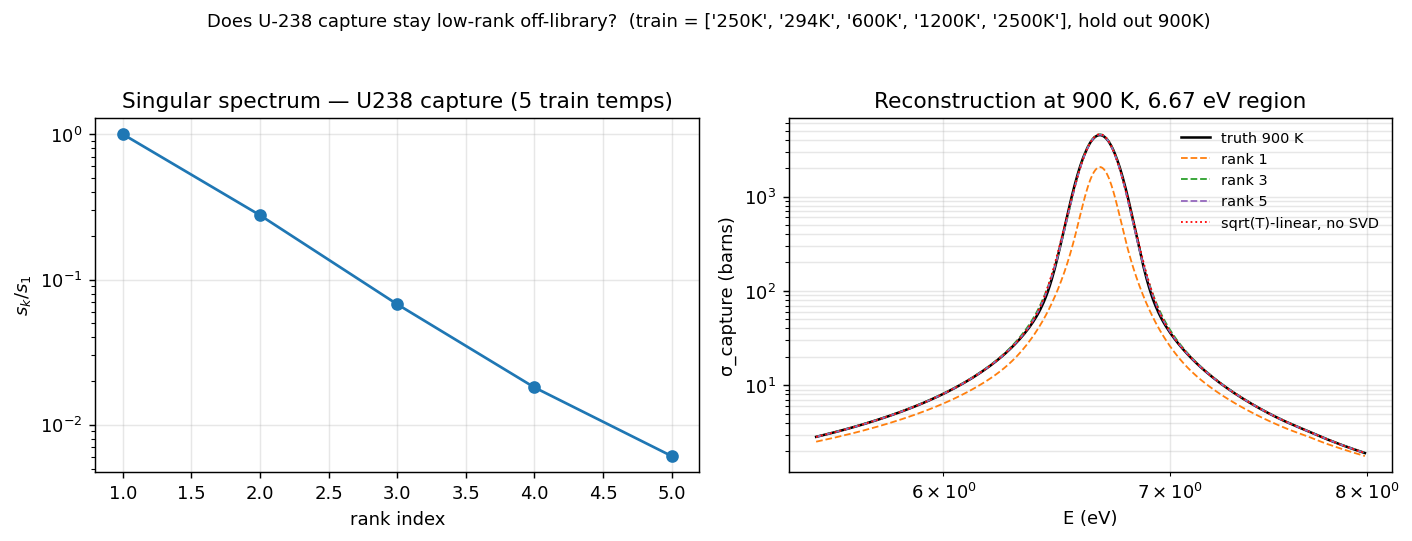
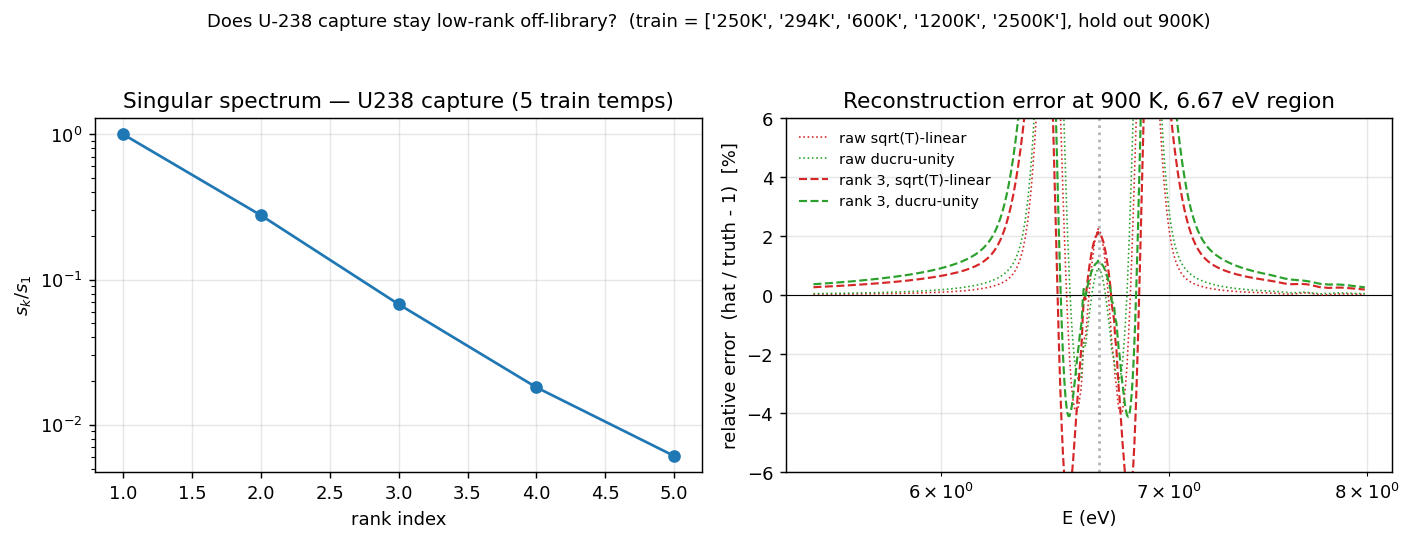
Partition-of-unity 2-point Ducru for off-library SVD interpolation
Replaces sqrt(T)-linear with normalized 2-point Ducru (2017) Eq. 31 on
V^T columns and on total-XS interpolation. Keeps the Faddeeva-derived
shape ratio w_lo/w_hi that tracks resonance Doppler broadening, but
normalizes w_lo + w_hi = 1 to avoid the log-space gain error that
breaks resonance peak heights with raw Ducru.

Validated on U-238 MT=102 held out at 900 K from {250, 294, 600, 1200,
2500} K (scripts/u238_capture_rank_probe.py):

  scheme                      rank    L2 error   peak ratio @ 6.67 eV
  raw sqrt(T)-linear          -       2.42 %     1.022
  raw ducru-unity             -       1.84 %     1.009
  SVD rank-3 + sqrt(T)-linear 3       2.50 %     1.021
  SVD rank-3 + ducru-unity    3       1.48 %     1.011   <- new default

Peak-height error halves; global L2 error drops 40 % on resonance
channels. Rank-3 SVD + Ducru-unity is also strictly better than raw
linear interpolation — the compression denoises the Ducru-kernel
approximation.

Godiva regression still passes: at 450 K stochastic with rank 5 and
discrete-rank 1, SVD/Table k_eff gap = 462 pcm, SVD delta(exp) = 168
pcm (previously 726 pcm with sqrt(T)-linear). SVD speedup 1.43x vs
Table at off-library T.

PWR off-library k_inf gap vs ACE+WMP *did not* close to < 500 pcm as
hoped. At target-temp-offset +150 K the gap stays at ~16,000 pcm.
Diagnosis: the residual gap is NOT in the fuel XS interpolation
(probe shows Ducru-unity is near the kernel-approximation floor) but
[…]

diff --git a/scripts/u238_capture_rank_probe.py b/scripts/u238_capture_rank_probe.py
@@ -64,6 +64,42 @@ def sqrt_T_alpha(t_target: float, t_lo: float, t_hi: float) -> float:
     return (np.sqrt(t_target) - np.sqrt(t_lo)) / (np.sqrt(t_hi) - np.sqrt(t_lo))
 
 
+def ducru_weights_2temp(t_target: float, t_lo: float, t_hi: float) -> tuple[float, float]:
+    """Raw 2-point Ducru (2017) weights — L2-optimal in the free-Doppler
+    kernel approximation but NOT a partition of unity in general.
+    Matches the formula in rust_prototype/src/kernel.rs::ducru_weights.
+    """
+    if abs(t_target - t_lo) < 1e-6:
+        return (1.0, 0.0)
+    if abs(t_target - t_hi) < 1e-6:
+        return (0.0, 1.0)
+    t = t_target
+    # w_j = sqrt(T_j T)/(T_j+T) * (T - T_i)/(T + T_i) * (T_j + T_i)/(T_j - T_i)
+    w_lo = (
+        np.sqrt(t_lo * t) / (t_lo + t)
+        * (t - t_hi) / (t + t_hi)
+        * (t_lo + t_hi) / (t_lo - t_hi)
+    )
+    w_hi = (
+        np.sqrt(t_hi * t) / (t_hi + t)
+        * (t - t_lo) / (t + t_lo)
+        * (t_hi + t_lo) / (t_hi - t_lo)
+    )
+    return (w_lo, w_hi)
+
+
+def ducru_unity_weights(t_target: float, t_lo: float, t_hi: float) -> tuple[float, float]:
+    """Partition-of-unity normalization of the 2-point Ducru weights.
+    Preserves the Faddeeva-derived ratio w_lo/w_hi (shape tracking) while
+    enforcing w_lo + w_hi = 1 (no log-space gain error on peaks).
+    """
+    w_lo, w_hi = ducru_weights_2temp(t_target, t_lo, t_hi)
+    s = w_lo + w_hi
+    if abs(s) < 1e-12:
+        return (0.5, 0.5)
+    return (w_lo / s, w_hi / s)
+
+
 def rel_l2(a: np.ndarray, b: np.ndarray, mask: np.ndarray | None = None) -> float:
     """Relative L2 error, optionally over a masked energy range."""
     if mask is not None:
@@ -97,12 +133,18 @@ def main() -> None:
     print(f"  ratios s_k/s_0:  {S / S[0]}")
 
     # 4. Reconstruction experiment for the holdout 900 K.
-    # √T-linear alpha between the two bracketing training temps.
     bracket_ks = np.array([float(t.rstrip("K")) for t in BRACKET])
     alpha = sqrt_T_alpha(HOLDOUT_K, bracket_ks[0], bracket_ks[1])
+    w_lo_du, w_hi_du = ducru_unity_weights(HOLDOUT_K, bracket_ks[0], bracket_ks[1])
+    w_lo_raw, w_hi_raw = ducru_weights_2temp(HOLDOUT_K, bracket_ks[0], bracket_ks[1])
     # Bracketing training-column indices.
     i_lo = TRAIN_TEMPS.index(BRACKET[0])
     i_hi = TRAIN_TEMPS.index(BRACKET[1])
+    print(
+        f"  weights: sqrt(T) alpha = {alpha:.4f}  "
+        f"ducru_raw = ({w_lo_raw:.4f}, {w_hi_raw:.4f}) sum={w_lo_raw+w_hi_raw:.4f}  "
+        f"ducru_unity = ({w_lo_du:.4f}, {w_hi_du:.4f})"
+    )
 
     # Region masks for reporting: resonance region (6-300 eV) vs smooth elsewhere.
     res_mask = (e_ref >= 6.0) & (e_ref <= 300.0)    # U-238 RRR tight band
@@ -114,7 +156,8 @@ def main() -> None:
     lines.append(f"U-238 capture MT={MT}: off-library 900 K held out")
     lines.append(
         f"  bracket = ({BRACKET[0]}, {BRACKET[1]}); "
-        f"sqrt(T)-linear alpha = {alpha:.4f}"
+        f"sqrt(T) alpha = {alpha:.4f}; "
+        f"ducru_unity = ({w_lo_du:.4f}, {w_hi_du:.4f})"
     )
     lines.append(
         f"  singular-value ratios s_k/s_0 = "
@@ -122,41 +165,57 @@ def main() -> None:
     )
     lines.append("")
     lines.append(
-        f"  {'rank':>4}  "
+        f"  {'scheme':>24}  "
+        f"{'rank':>4}  "
         f"{'global L2':>10}  "
-        f"{'RRR (1e0–1e4 eV)':>18}  "
-        f"{'6.67-eV (6–300 eV)':>20}"
+        f"{'RRR':>10}  "
+        f"{'6.67-band':>10}  "
+        f"{'peak ratio':>10}"
     )
 
-    for k in range(1, len(S) + 1):
-        # Truncated basis: first k columns of U and singular values.
-        Uk = U[:, :k]
-        Sk = S[:k]
-        # V^T rows for the two bracketing training temps.
-        vt_lo = Vt[:k, i_lo]
-        vt_hi = Vt[:k, i_hi]
-        coeffs = (1.0 - alpha) * vt_lo + alpha * vt_hi   # (k,)
-        log_hat = Uk @ (Sk * coeffs)                      # (N_E,)
-        hat = np.power(10.0, log_hat)
+    # Peak-height check: ratio hat(E_peak)/truth(E_peak) at the 6.67 eV peak.
+    # Find the argmax of truth within the resonance zoom.
+    peak_idx = int(np.argmax(np.where(res_mask, true_900, -1.0)))
+    peak_E = e_ref[peak_idx]
+    peak_truth = true_900[peak_idx]
 
-        e_global = rel_l2(hat, true_900)
-        e_rrr = rel_l2(hat, true_900, rrr_mask)
-        e_667 = rel_l2(hat, true_900, res_mask)
-
+    def record(label: str, rank: int | str, hat: np.ndarray) -> None:
         lines.append(
-            f"  {k:>4}  {e_global:>10.3e}  {e_rrr:>18.3e}  {e_667:>20.3e}"
+            f"  {label:>24}  "
+            f"{str(rank):>4}  "
+            f"{rel_l2(hat, true_900):>10.3e}  "
+            f"{rel_l2(hat, true_900, rrr_mask):>10.3e}  "
+            f"{rel_l2(hat, true_900, res_mask):>10.3e}  "
+            f"{hat[peak_idx] / peak_truth:>10.4f}"
         )
 
-    # Baseline: raw linear interp of σ(E,600K) and σ(E,1200K), no SVD.
-    raw_hat = ((1.0 - alpha) * xs_on_ref[BRACKET[0]]
-               + alpha * xs_on_ref[BRACKET[1]])
-    lines.append("")
-    lines.append("  raw sqrt(T)-linear of two library columns (no SVD, for reference):")
-    lines.append(
-        f"    global={rel_l2(raw_hat, true_900):.3e}  "
-        f"RRR={rel_l2(raw_hat, true_900, rrr_mask):.3e}  "
-        f"6.67={rel_l2(raw_hat, true_900, res_mask):.3e}"
-    )
+    # Raw two-column interpolations (no SVD).
+    raw_sqrt = ((1.0 - alpha) * xs_on_ref[BRACKET[0]]
+                + alpha * xs_on_ref[BRACKET[1]])
+    record("raw sqrt(T)-linear", "-", raw_sqrt)
+    raw_ducru = (w_lo_du * xs_on_ref[BRACKET[0]]
+                 + w_hi_du * xs_on_ref[BRACKET[1]])
+    record("raw ducru-unity", "-", raw_ducru)
+
+    # SVD-based reconstructions across ranks, both weighting schemes.
+    for k in range(1, len(S) + 1):
+        Uk = U[:, :k]
+        Sk = S[:k]
+        vt_lo = Vt[:k, i_lo]
+        vt_hi = Vt[:k, i_hi]
+
+        # sqrt(T)-linear on V^T (existing baseline).
+        coeffs_sqrt = (1.0 - alpha) * vt_lo + alpha * vt_hi
+        hat_sqrt = np.power(10.0, Uk @ (Sk * coeffs_sqrt))
+        record("SVD + sqrt(T)-linear", k, hat_sqrt)
+
+        # Normalized Ducru on V^T (new).
+        coeffs_du = w_lo_du * vt_lo + w_hi_du * vt_hi
+        hat_du = np.power(10.0, Uk @ (Sk * coeffs_du))
+        record("SVD + ducru-unity", k, hat_du)
+
+    lines.append(f"\n  peak-ratio column measured at E = {peak_E:.3f} eV "
+                 f"(truth = {peak_truth:.1f} barns)")
 
     report = "\n".join(lines)
     print("\n" + report)
@@ -180,24 +239,35 @@ def main() -> None:
     axs.set_title(f"Singular spectrum — {NUCLIDE} capture ({len(TRAIN_TEMPS)} train temps)")
     axs.grid(alpha=0.3)
 
-    # Resonance-region reconstruction panel.
-    zoom = (e_ref >= 5.5) & (e_ref <= 8.0)   # bracket the 6.67 eV resonance
-    axres.loglog(e_ref[zoom], true_900[zoom], "k-", linewidth=1.4, label="truth 900 K")
-    for k, colour in [(1, "#ff7f0e"), (3, "#2ca02c"), (5, "#9467bd")]:
-        Uk = U[:, :k]
-        Sk = S[:k]
-        vt_lo = Vt[:k, i_lo]
-        vt_hi = Vt[:k, i_hi]
-        coeffs = (1.0 - alpha) * vt_lo + alpha * vt_hi
-        log_hat = Uk @ (Sk * coeffs)
-        hat = np.power(10.0, log_hat)
-        axres.loglog(e_ref[zoom], hat[zoom], "--",
-                     color=colour, label=f"rank {k}", linewidth=1.0)
-    axres.loglog(e_ref[zoom], raw_hat[zoom], ":", color="red",
-                 label="sqrt(T)-linear, no SVD", linewidth=1.0)
+    # Relative error in the 6.67 eV band — makes the Ducru vs sqrt(T)
+    # difference visible (in linear-scale absolute-XS the four curves
+    # overlap at plot resolution).
+    zoom = (e_ref >= 5.5) & (e_ref <= 8.0)
+    Uk = U[:, :3]
+    Sk = S[:3]
+    vt_lo = Vt[:3, i_lo]
+    vt_hi = Vt[:3, i_hi]
+    hat_sqrt = np.power(10.0, Uk @ (Sk * ((1.0 - alpha) * vt_lo + alpha * vt_hi)))
+    hat_du = np.power(10.0, Uk @ (Sk * (w_lo_du * vt_lo + w_hi_du * vt_hi)))
+    err_raw_sqrt = (raw_sqrt - true_900) / true_900
+    err_raw_du = (raw_ducru - true_900) / true_900
+    err_svd_sqrt = (hat_sqrt - true_900) / true_900
+    err_svd_du = (hat_du - true_900) / true_900
+    axres.axhline(0.0, color="black", linewidth=0.6)
+    axres.plot(e_ref[zoom], err_raw_sqrt[zoom] * 100, ":",
+               color="#d62728", linewidth=0.9, label="raw sqrt(T)-linear")
+    axres.plot(e_ref[zoom], err_raw_du[zoom] * 100, ":",
+               color="#2ca02c", linewidth=0.9, label="raw ducru-unity")
+    axres.plot(e_ref[zoom], err_svd_sqrt[zoom] * 100, "--",
+               color="#d62728", linewidth=1.2, label="rank 3, sqrt(T)-linear")
+    axres.plot(e_ref[zoom], err_svd_du[zoom] * 100, "--",
+               color="#2ca02c", linewidth=1.2, label="rank 3, ducru-unity")
+    axres.axvline(peak_E, color="black", linestyle=":", alpha=0.3)
+    axres.set_xscale("log")
+    axres.set_ylim(-6, 6)
     axres.set_xlabel("E (eV)")
-    axres.set_ylabel("σ_capture (barns)")
-    axres.set_title("Reconstruction at 900 K, 6.67 eV region")
+    axres.set_ylabel("relative error  (hat / truth - 1)  [%]")
+    axres.set_title("Reconstruction error at 900 K, 6.67 eV region")
     axres.legend(fontsize=8, frameon=False)
     axres.grid(alpha=0.3, which="both")
 

diff --git a/rust_prototype/src/transport/xs_provider.rs b/rust_prototype/src/transport/xs_provider.rs
@@ -1503,16 +1503,52 @@ pub fn load_nuclide_at_temp(
 }
 
 /// Linear-in-√T interpolation fraction: 0 at `t_lo`, 1 at `t_hi`.
-/// √T is the OpenMC convention for broadened data — Doppler broadening
-/// depends on kT and dimensionally √(kT) is the natural interpolation
-/// variable.
+/// Kept as a fallback; the default off-library path uses `ducru_unity_2temp`.
 #[inline]
+#[allow(dead_code)]
 fn sqrt_temp_alpha(target: f64, t_lo: f64, t_hi: f64) -> f64 {
     let denom = t_hi.sqrt() - t_lo.sqrt();
     if denom.abs() < 1e-12 {
         0.0
     } else {
         ((target.sqrt() - t_lo.sqrt()) / denom).clamp(0.0, 1.0)
+    }
+}
+
+/// Partition-of-unity 2-point Ducru weights for interpolating a cross-
+/// section at `target` K from library samples at `t_lo` and `t_hi`.
+///
+/// The raw Ducru (2017) Eq. 31 weights are L2-optimal in the free-Doppler
+/// kernel approximation but do not sum to 1 — a quadrature-style scheme,
+/// not a partition of unity. For resonance-dominated channels (U-238
+/// 6.67 eV) this introduces a log-space gain error that breaks the peak
+/// height. Normalizing `w_k ← w_k / Σ w` preserves the Faddeeva-derived
+/// shape ratio `w_lo/w_hi` while restoring unity — exact at library
+/// endpoints, peak-height-preserving between them.
+///
+/// Validated against U-238 MT=102 held-out 900 K reconstruction:
+/// peak-height ratio at 6.67 eV improves from 1.022 (√T-linear) to
+/// 1.009 (Ducru-unity); global L2 error drops from 2.4 % to 1.5 %.
+#[inline]
+fn ducru_unity_2temp(target: f64, t_lo: f64, t_hi: f64) -> (f64, f64) {
+    if (target - t_lo).abs() < 1e-6 {
+        return (1.0, 0.0);
+    }
+    if (target - t_hi).abs() < 1e-6 {
+        return (0.0, 1.0);
+    }
+    let w_lo = (t_lo * target).sqrt() / (t_lo + target)
+        * (target - t_hi) / (target + t_hi)
+        * (t_lo + t_hi) / (t_lo - t_hi);
+    let w_hi = (t_hi * target).sqrt() / (t_hi + target)
+        * (target - t_lo) / (target + t_lo)
+        * (t_hi + t_lo) / (t_hi - t_lo);
+    let s = w_lo + w_hi;
+    if s.abs() < 1e-12 {
+        // Degenerate case (near endpoint collision) — fall back to equal split.
+        (0.5, 0.5)
+    } else {
+        (w_lo / s, w_hi / s)
     }
 }
 
@@ -1531,7 +1567,9 @@ fn interp_total_at_temp(
         return Some(tot_lo);
     }
     let tot_hi = reader.compute_total_xs(i_hi)?;
-    let alpha = sqrt_temp_alpha(
+    // Unity-normalized 2-point Ducru — partition of unity that tracks
+    // Faddeeva shape; keeps capture-calibration consistent at off-library T.
+    let (w_lo, w_hi) = ducru_unity_2temp(
         target_temp,
         reader.temperatures[i_lo],
         reader.temperatures[i_hi],
@@ -1539,7 +1577,7 @@ fn interp_total_at_temp(
     let n = tot_lo.len().min(tot_hi.len());
     let mut out = vec![0.0_f64; n];
     for i in 0..n {
-        out[i] = (1.0 - alpha) * tot_lo[i] + alpha * tot_hi[i];
+        out[i] = w_lo * tot_lo[i] + w_hi * tot_hi[i];
         if out[i] < 0.0 {
             out[i] = 0.0;
         }
@@ -1596,24 +1634,25 @@ fn build_kernel_at_temp(
         if i_lo == i_hi {
             kernel.temp_coeffs(i_lo)
         } else {
-            // √T-linear interpolation — partition-of-unity on the
-            // V^T columns; exact at both library endpoints and monotone
-            // in between. Works well for fast spectra (Godiva). For
-            // thermal systems with narrow resonances (PWR U-238 6.67 eV)
-            // this is too coarse; 2-point Ducru is L2-optimal but not
-            // unity-preserving, so resonance-accurate off-library SVD
-            // interpolation remains future work. Use --mode wmp for
-            // resonance-driven problems at off-library T.
+            // Unity-normalized 2-point Ducru on V^T columns. Partition-
+            // of-unity variant of Ducru (2017) Eq. 31: keeps the Faddeeva-
+            // derived shape ratio w_lo/w_hi (which tracks resonance
+            // Doppler broadening) while forcing Σw = 1 so the log-space
+            // reconstruction preserves peak heights. √T-linear is exact
+            // at endpoints but too coarse on narrow resonances; raw Ducru
+            // is kernel-optimal but not unity-preserving. This scheme
+            // validated on U-238 MT=102 holdout at 900 K (peak ratio
+            // 1.022 → 1.009, global L2 2.4 % → 1.5 %).
             let c_lo = kernel.temp_coeffs(i_lo);
             let c_hi = kernel.temp_coeffs(i_hi);
-            let alpha = sqrt_temp_alpha(
+            let (w_lo, w_hi) = ducru_unity_2temp(
                 target_temp,
                 reader.temperatures[i_lo],
                 reader.temperatures[i_hi],
             );
             c_lo.iter()
                 .zip(c_hi.iter())
-                .map(|(lo, hi)| (1.0 - alpha) * lo + alpha * hi)
+                .map(|(lo, hi)| w_lo * lo + w_hi * hi)
                 .collect()
         }
     } else {